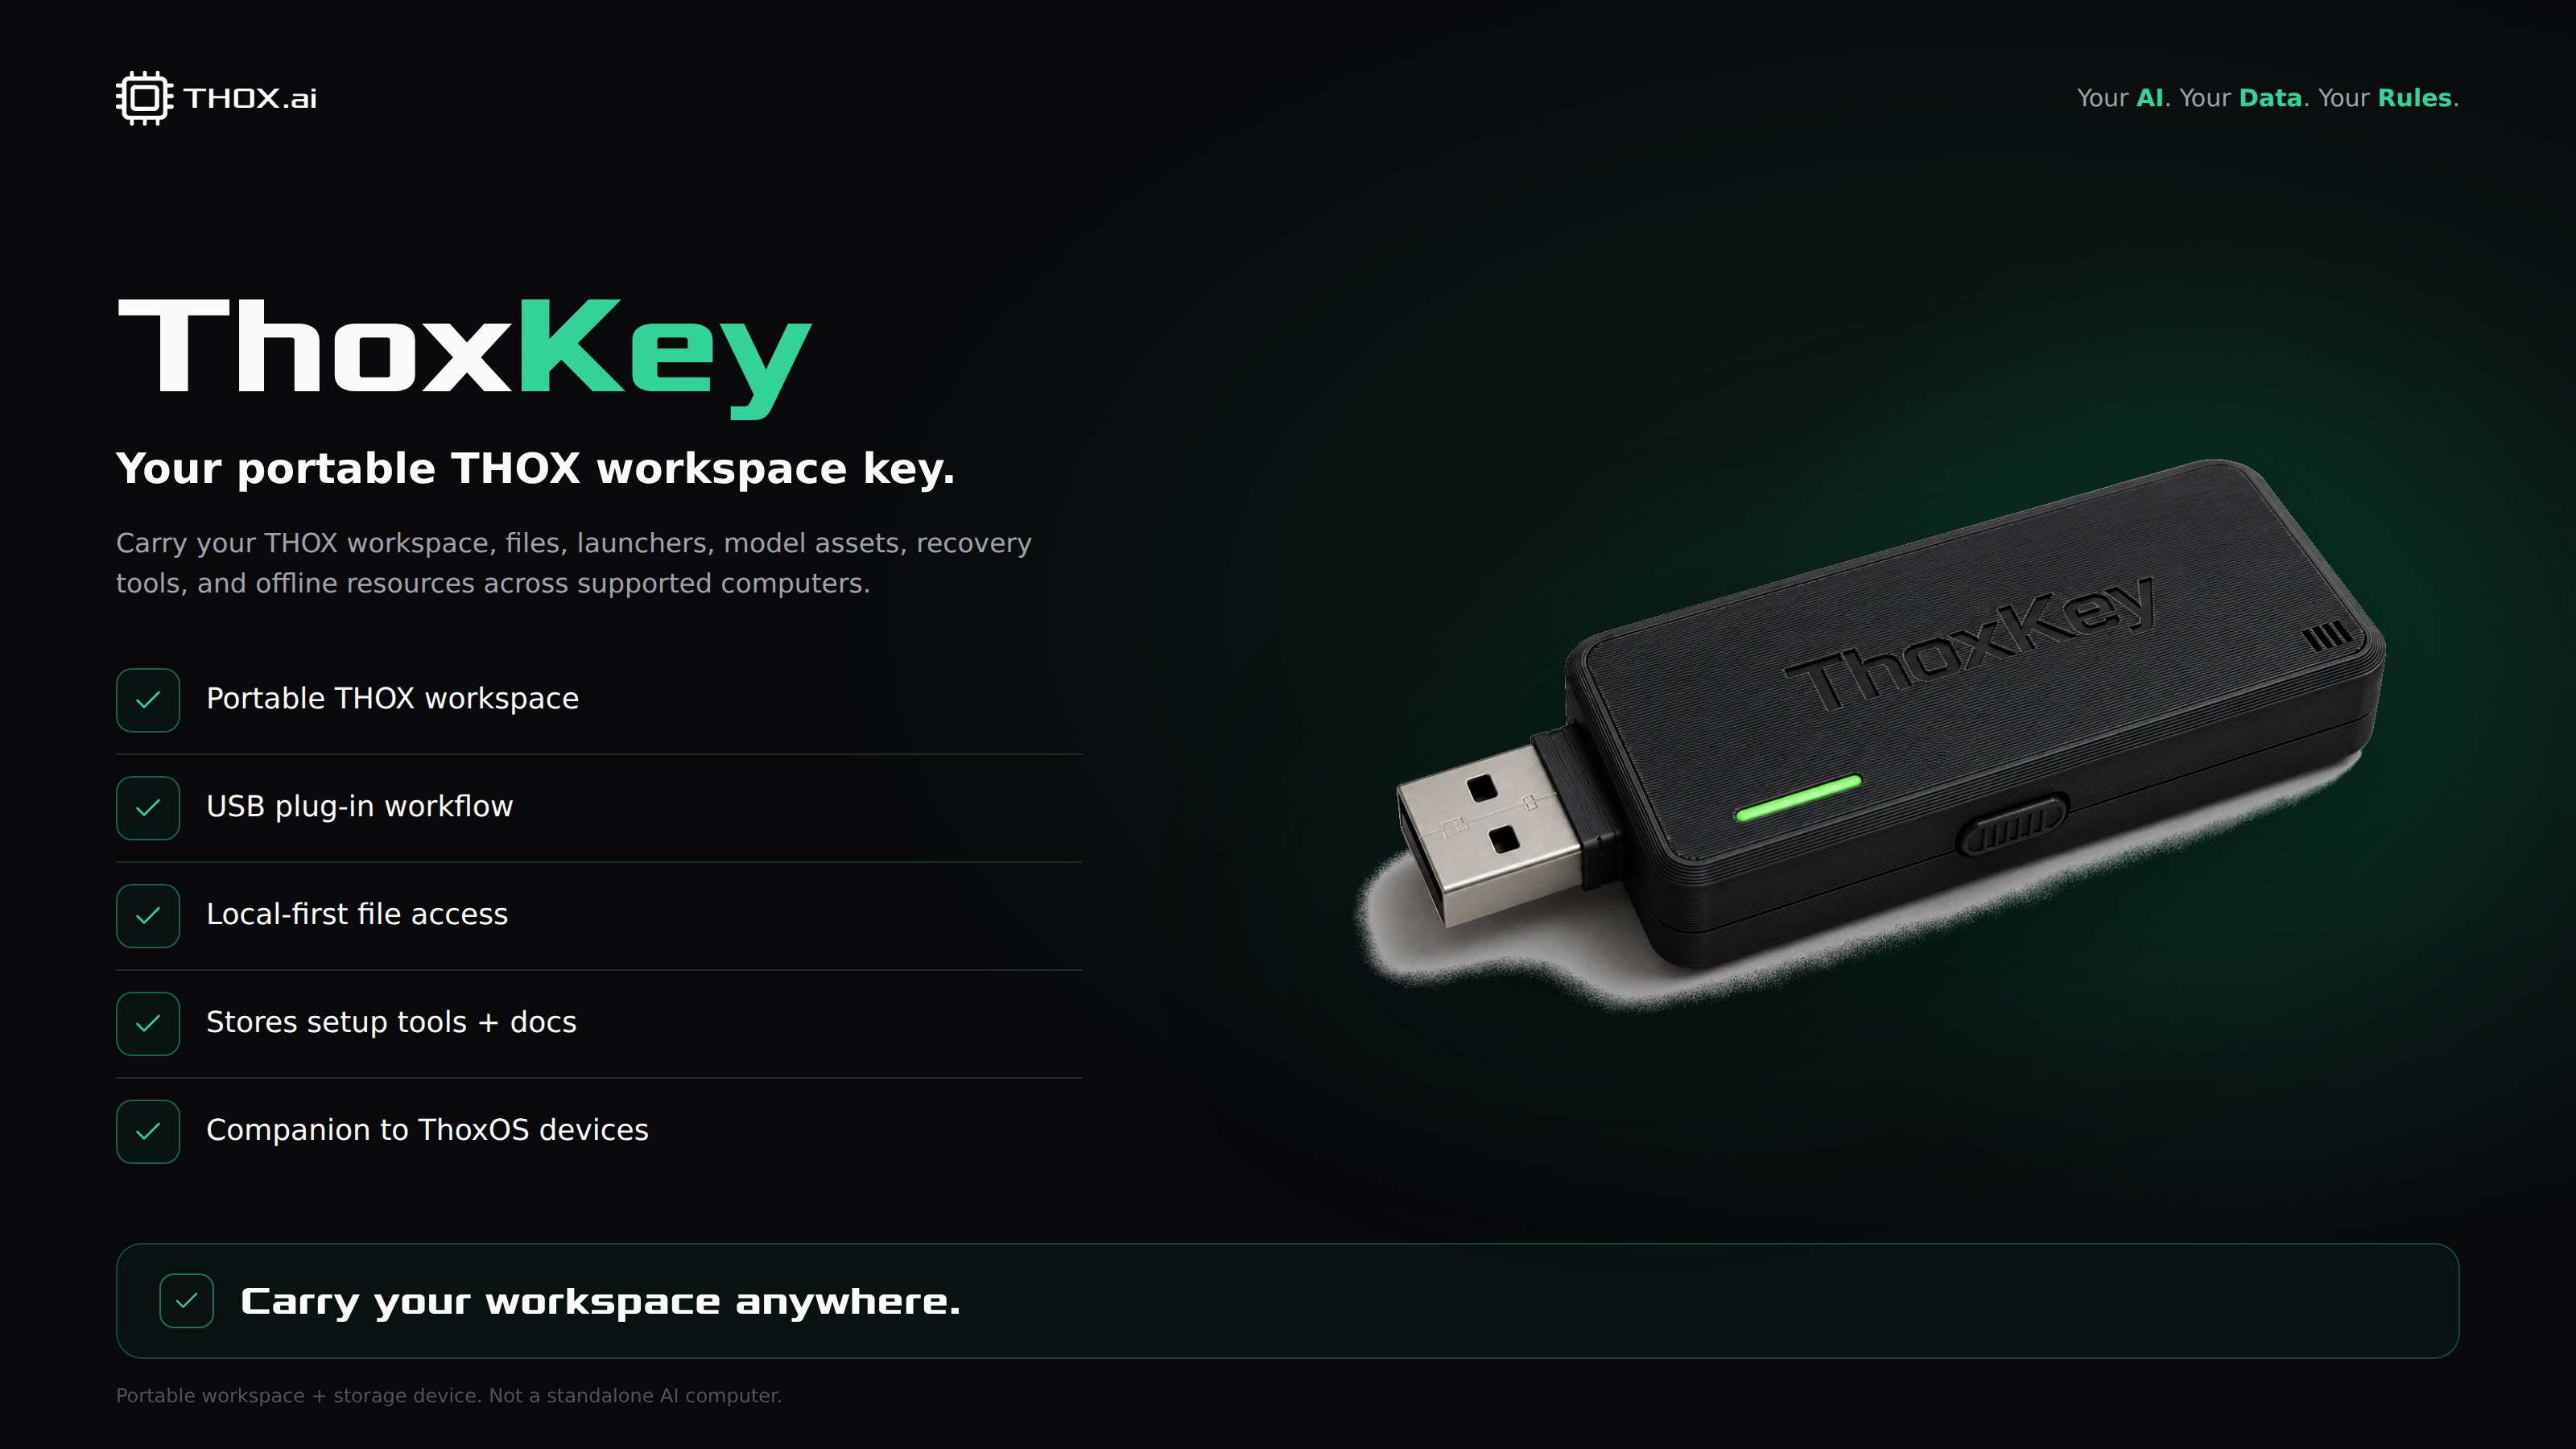
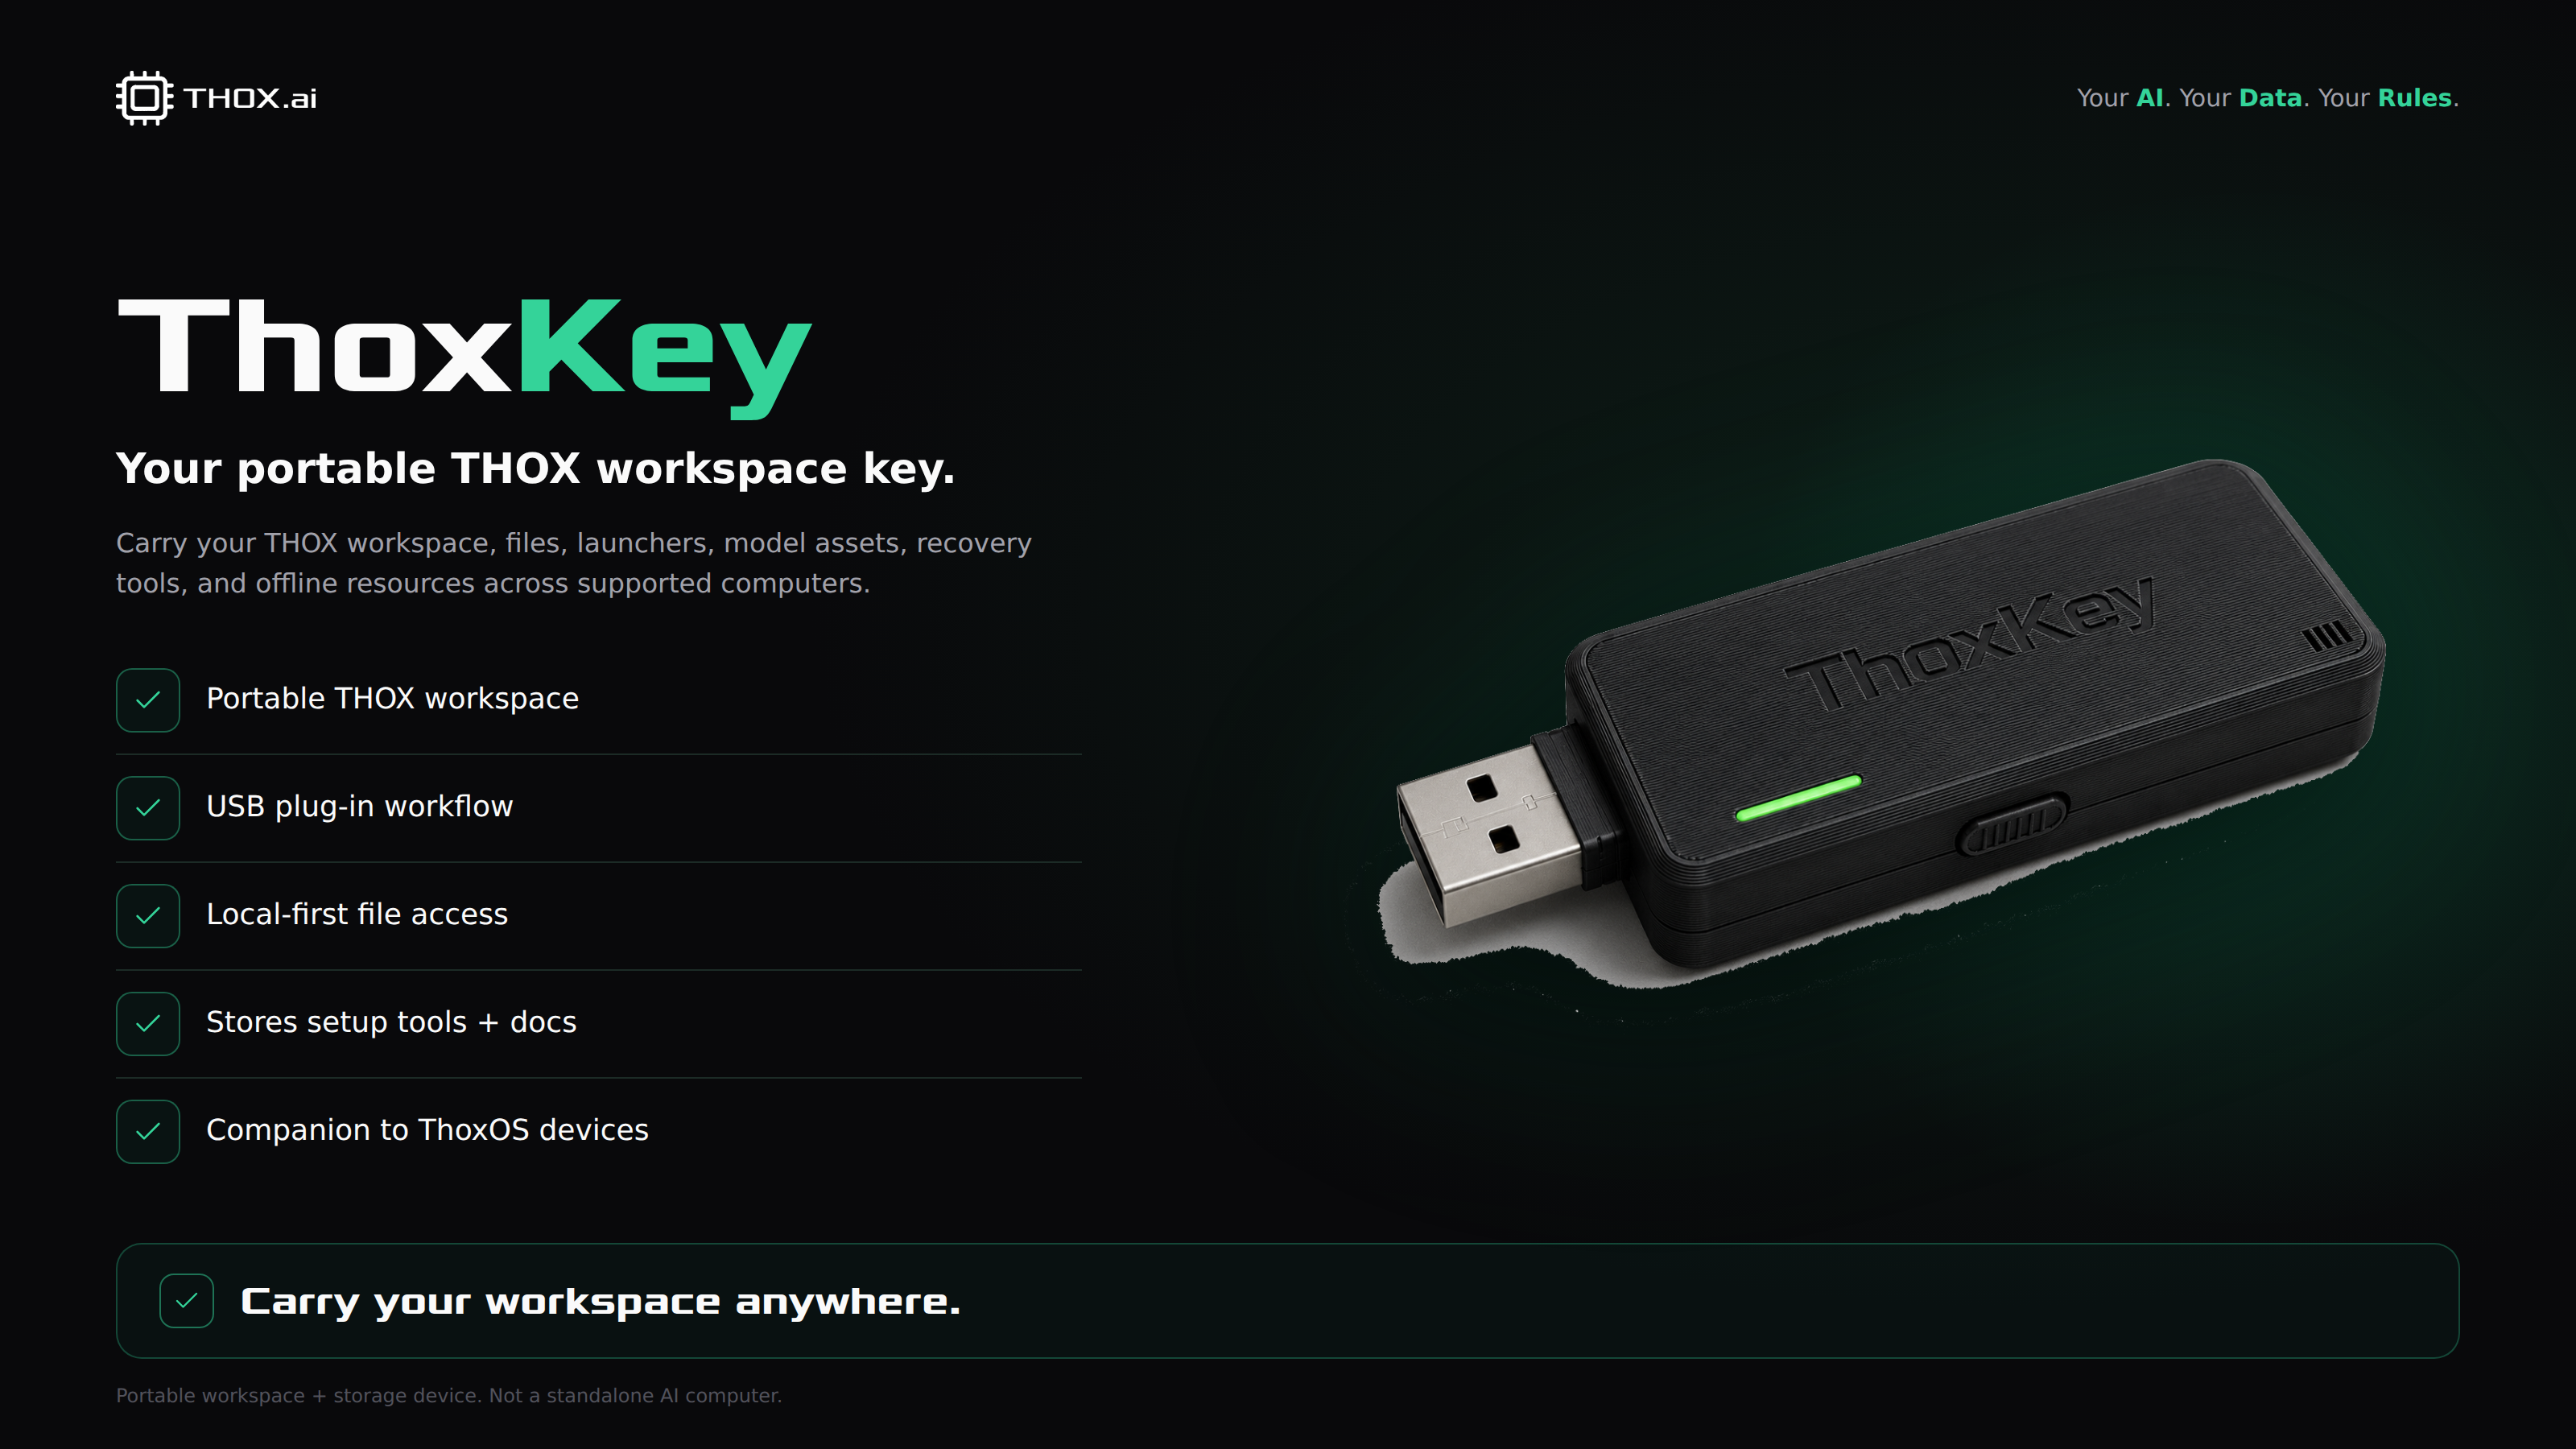
Use supplied ThoxKey cutout; auto-enable GitHub Pages
- ThoxKey device graphic now uses the supplied transparent-background cutout
  (assets/device/thoxkey-matte-black-cutout.png) directly, skipping the
  flood-fill knockout; build_device_graphics.py gains a per-device "cutout"
  flag. Regenerated prelaunch_product_thoxkey_16x9_v2.png.
- .github/workflows/pages.yml: configure-pages enablement: true, so the Pages
  deploy enables Pages itself (the first run failed only because Pages was not
  yet enabled).

Claude-Session: https://claude.ai/code/session_01Cj28ynKEQR9trNENcjGVmY

Changed region(s): [[0.5, 0.56, 0.875, 0.7156], [0.875, 0.5289, 0.9062, 0.56]]

diff --git a/kickstarter/build_device_graphics.py b/kickstarter/build_device_graphics.py
@@ -29,8 +29,8 @@ DEVICES = [
         "callouts": ["Portable THOX workspace", "USB plug-in workflow", "Local-first file access", "Stores setup tools + docs", "Companion to ThoxOS devices"],
         "footer": "Carry your workspace anywhere.",
         "honest": "Portable workspace + storage device. Not a standalone AI computer.",
-        "img": REPO / "assets/device/thoxkey-matte-black.png",
-        "fit": "contain",
+        "img": REPO / "assets/device/thoxkey-matte-black-cutout.png",
+        "fit": "contain", "cutout": True,
     },
     {
         "key": "thoxmini", "name_w": "Thox", "name_g": "Mini",
@@ -67,8 +67,59 @@ DEVICES = [
 ICON = ('<svg viewBox="0 0 24 24" fill="none" stroke="#34D399" stroke-width="1.6" '
         'stroke-linecap="round" stroke-linejoin="round"><path d="M20 6L9 17l-5-5"/></svg>')
 
+# Background knockout for studio renders on a light ground: flood from the
+# borders, removing only pixels close to the sampled light background (global
+# threshold), stopping at the dark device edge (keeps body, USB, LED); feathers
+# the seam. Skipped for images that already have a transparent background.
+KNOCKOUT = """<script>
+(function(){
+  var im = new Image();
+  im.onload = function(){
+    var w = im.naturalWidth, h = im.naturalHeight;
+    var work = document.createElement('canvas'); work.width = w; work.height = h;
+    var wx = work.getContext('2d'); wx.drawImage(im, 0, 0);
+    var d = wx.getImageData(0, 0, w, h), a = d.data;
+    function px(x,y){ return (y*w+x)*4; }
+    var cs=[px(2,2),px(w-3,2),px(2,h-3),px(w-3,h-3)], br=0,bg=0,bb=0;
+    for (var c=0;c<4;c++){ br+=a[cs[c]]; bg+=a[cs[c]+1]; bb+=a[cs[c]+2]; }
+    br/=4; bg/=4; bb/=4;
+    var HARD=60, SOFT=96;
+    function dist(o){ var dr=a[o]-br, dg=a[o+1]-bg, db=a[o+2]-bb; return Math.sqrt(dr*dr+dg*dg+db*db); }
+    var vis = new Uint8Array(w*h);
+    var sx = new Int32Array(w*h), sy = new Int32Array(w*h), sp = 0;
+    function push(x,y){ var id=y*w+x; if(!vis[id]){ vis[id]=1; sx[sp]=x; sy[sp]=y; sp++; } }
+    for (var x=0;x<w;x++){ push(x,0); push(x,h-1); }
+    for (var y=0;y<h;y++){ push(0,y); push(w-1,y); }
+    while (sp>0){
+      sp--; var cx=sx[sp], cy=sy[sp], o=(cy*w+cx)*4;
+      var dd=dist(o);
+      if (dd>=SOFT) continue;
+      a[o+3] = dd<=HARD ? 0 : Math.round(255*(dd-HARD)/(SOFT-HARD));
+      var nb=[[cx+1,cy],[cx-1,cy],[cx,cy+1],[cx,cy-1]];
+      for (var k=0;k<4;k++){
+        var nx=nb[k][0], ny=nb[k][1];
+        if(nx<0||ny<0||nx>=w||ny>=h) continue;
+        push(nx,ny);
+      }
+    }
+    wx.putImageData(d,0,0);
+    var dev=document.getElementById('dev'); dev.width=w; dev.height=h;
+    dev.getContext('2d').drawImage(work,0,0);
+    document.body.setAttribute('data-ready','1');
+  };
+  im.src = "__IMG__";
+})();
+</script>"""
+
 def card(d):
     img = uri(d["img"], "image/png")
+    if d.get("cutout"):
+        # Image already has a transparent background — draw it as-is.
+        right_el = f'<div class="right"><img id="dev" src="{img}" alt="{d["name_w"]}{d["name_g"]}" onload="document.body.setAttribute(\'data-ready\',\'1\')"/></div>'
+        knockout = ""
+    else:
+        right_el = '<div class="right"><canvas id="dev"></canvas></div>'
+        knockout = KNOCKOUT.replace("__IMG__", img)
     callouts = "\n".join(
         f'<div class="co"><div class="ico">{ICON}</div><div class="cot">{c}</div></div>'
         for c in d["callouts"])
@@ -97,7 +148,7 @@ def card(d):
   .ico svg{{width:20px;height:20px;}}
   .cot{{font-size:18px;font-weight:500;color:#FAFAFA;}}
   .right{{position:relative;display:flex;align-items:center;justify-content:center;}}
-  .right canvas{{max-width:100%;max-height:600px;filter:drop-shadow(0 26px 52px rgba(0,0,0,0.65)) drop-shadow(0 0 60px rgba(16,185,129,0.14));}}
+  .right canvas,.right img{{max-width:100%;max-height:600px;filter:drop-shadow(0 26px 52px rgba(0,0,0,0.65)) drop-shadow(0 0 60px rgba(16,185,129,0.14));}}
   .footbar{{position:absolute;left:72px;right:72px;bottom:56px;display:flex;align-items:center;gap:16px;
     border:1px solid rgba(52,211,153,0.28);border-radius:16px;padding:18px 26px;background:rgba(16,185,129,0.05);}}
   .footbar .fi{{width:34px;height:34px;flex:none;border:1px solid rgba(52,211,153,0.5);border-radius:9px;
@@ -116,54 +167,11 @@ def card(d):
     <div class="desc">{d['desc']}</div>
     <div class="cos">{callouts}</div>
   </div>
-  <div class="right"><canvas id="dev"></canvas></div>
+  {right_el}
   <div class="footbar"><div class="fi">{ICON}</div><div class="footline">{d['footer']}</div></div>
   <div class="honest">{d['honest']}</div>
 </div>
-<script>
-// Background knockout: flood from the borders, removing only pixels close to
-// the sampled light studio background (global threshold). Stops at the dark
-// device edge (keeps the matte-black body, USB, and LED). Then feathers the
-// 1px seam and fades any residual light shadow so the device floats cleanly.
-(function(){{
-  var im = new Image();
-  im.onload = function(){{
-    var w = im.naturalWidth, h = im.naturalHeight;
-    var work = document.createElement('canvas'); work.width = w; work.height = h;
-    var wx = work.getContext('2d'); wx.drawImage(im, 0, 0);
-    var d = wx.getImageData(0, 0, w, h), a = d.data;
-    // sample background = average of the four corners
-    function px(x,y){{ return (y*w+x)*4; }}
-    var cs=[px(2,2),px(w-3,2),px(2,h-3),px(w-3,h-3)], br=0,bg=0,bb=0;
-    for (var c=0;c<4;c++){{ br+=a[cs[c]]; bg+=a[cs[c]+1]; bb+=a[cs[c]+2]; }}
-    br/=4; bg/=4; bb/=4;
-    var HARD=60, SOFT=96;            // <HARD: bg; HARD..SOFT: partial fade
-    function dist(o){{ var dr=a[o]-br, dg=a[o+1]-bg, db=a[o+2]-bb; return Math.sqrt(dr*dr+dg*dg+db*db); }}
-    var vis = new Uint8Array(w*h);
-    var sx = new Int32Array(w*h), sy = new Int32Array(w*h), sp = 0;
-    function push(x,y){{ var id=y*w+x; if(!vis[id]){{ vis[id]=1; sx[sp]=x; sy[sp]=y; sp++; }} }}
-    for (var x=0;x<w;x++){{ push(x,0); push(x,h-1); }}
-    for (var y=0;y<h;y++){{ push(0,y); push(w-1,y); }}
-    while (sp>0){{
-      sp--; var cx=sx[sp], cy=sy[sp], o=(cy*w+cx)*4;
-      var dd=dist(o);
-      if (dd>=SOFT) continue;                 // reached the device — stop
-      a[o+3] = dd<=HARD ? 0 : Math.round(255*(dd-HARD)/(SOFT-HARD)); // feather seam
-      var nb=[[cx+1,cy],[cx-1,cy],[cx,cy+1],[cx,cy-1]];
-      for (var k=0;k<4;k++){{
-        var nx=nb[k][0], ny=nb[k][1];
-        if(nx<0||ny<0||nx>=w||ny>=h) continue;
-        push(nx,ny);
-      }}
-    }}
-    wx.putImageData(d,0,0);
-    var dev=document.getElementById('dev'); dev.width=w; dev.height=h;
-    dev.getContext('2d').drawImage(work,0,0);
-    document.body.setAttribute('data-ready','1');
-  }};
-  im.src = "{img}";
-}})();
-</script></body></html>"""
+{knockout}</body></html>"""
 
 manifest = []
 for d in DEVICES: